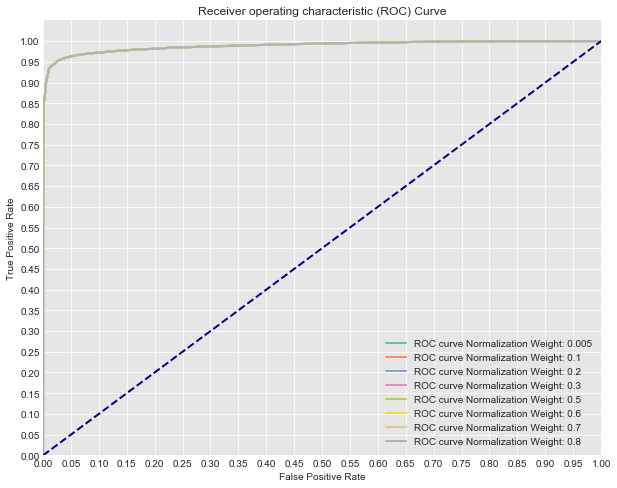
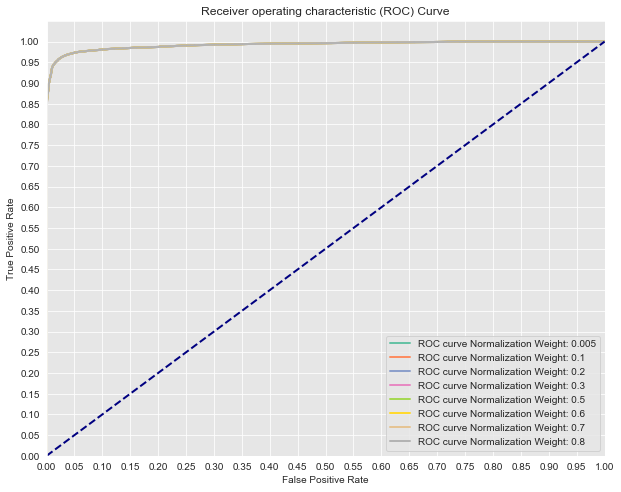
use same solver

diff --git a/README.md b/README.md
@@ -85,7 +85,7 @@ plt.figure(figsize=(10,8))
 
 for n, c in enumerate(C_param_range):
     #Fit a model
-    logreg = LogisticRegression(fit_intercept = False, C = c) #Starter code
+    logreg = LogisticRegression(fit_intercept = False, C = c, solver='liblinear') #Starter code
     model_log = logreg.fit(X_train, y_train)
     print(model_log) #Preview model params
 
@@ -119,46 +119,54 @@ plt.show()
     1    284315
     0    284315
     dtype: int64
-    LogisticRegression(C=0.005, class_weight=None, dual=False,
-              fit_intercept=False, intercept_scaling=1, max_iter=100,
-              multi_class='ovr', n_jobs=1, penalty='l2', random_state=None,
-              solver='liblinear', tol=0.0001, verbose=0, warm_start=False)
-    AUC for 0.005: 0.9889222836885252
+    LogisticRegression(C=0.005, class_weight=None, dual=False, fit_intercept=False,
+                       intercept_scaling=1, l1_ratio=None, max_iter=100,
+                       multi_class='warn', n_jobs=None, penalty='l2',
+                       random_state=None, solver='liblinear', tol=0.0001, verbose=0,
+                       warm_start=False)
+    AUC for 0.005: 0.992261982457822
     LogisticRegression(C=0.1, class_weight=None, dual=False, fit_intercept=False,
-              intercept_scaling=1, max_iter=100, multi_class='ovr', n_jobs=1,
-              penalty='l2', random_state=None, solver='liblinear', tol=0.0001,
-              verbose=0, warm_start=False)
-    AUC for 0.1: 0.9889243265712433
+                       intercept_scaling=1, l1_ratio=None, max_iter=100,
+                       multi_class='warn', n_jobs=None, penalty='l2',
+                       random_state=None, solver='liblinear', tol=0.0001, verbose=0,
+                       warm_start=False)
+    AUC for 0.1: 0.9922559800919245
     LogisticRegression(C=0.2, class_weight=None, dual=False, fit_intercept=False,
-              intercept_scaling=1, max_iter=100, multi_class='ovr', n_jobs=1,
-              penalty='l2', random_state=None, solver='liblinear', tol=0.0001,
-              verbose=0, warm_start=False)
-    AUC for 0.2: 0.9889243770445593
+                       intercept_scaling=1, l1_ratio=None, max_iter=100,
+                       multi_class='warn', n_jobs=None, penalty='l2',
+                       random_state=None, solver='liblinear', tol=0.0001, verbose=0,
+                       warm_start=False)
+    AUC for 0.2: 0.9922558300575188
     LogisticRegression(C=0.3, class_weight=None, dual=False, fit_intercept=False,
-              intercept_scaling=1, max_iter=100, multi_class='ovr', n_jobs=1,
-              penalty='l2', random_state=None, solver='liblinear', tol=0.0001,
-              verbose=0, warm_start=False)
-    AUC for 0.3: 0.9889243972338857
+                       intercept_scaling=1, l1_ratio=None, max_iter=100,
+                       multi_class='warn', n_jobs=None, penalty='l2',
+                       random_state=None, solver='liblinear', tol=0.0001, verbose=0,
+                       warm_start=False)
+    AUC for 0.3: 0.9922557706771471
     LogisticRegression(C=0.5, class_weight=None, dual=False, fit_intercept=False,
-              intercept_scaling=1, max_iter=100, multi_class='ovr', n_jobs=1,
-              penalty='l2', random_state=None, solver='liblinear', tol=0.0001,
-              verbose=0, warm_start=False)
-    AUC for 0.5: 0.9889244075264833
+                       intercept_scaling=1, l1_ratio=None, max_iter=100,
+                       multi_class='warn', n_jobs=None, penalty='l2',
+                       random_state=None, solver='liblinear', tol=0.0001, verbose=0,
+                       warm_start=False)
+    AUC for 0.5: 0.9922557397993539
     LogisticRegression(C=0.6, class_weight=None, dual=False, fit_intercept=False,
-              intercept_scaling=1, max_iter=100, multi_class='ovr', n_jobs=1,
-              penalty='l2', random_state=None, solver='liblinear', tol=0.0001,
-              verbose=0, warm_start=False)
-    AUC for 0.6: 0.9889244102975672
+                       intercept_scaling=1, l1_ratio=None, max_iter=100,
+                       multi_class='warn', n_jobs=None, penalty='l2',
+                       random_state=None, solver='liblinear', tol=0.0001, verbose=0,
+                       warm_start=False)
+    AUC for 0.6: 0.9922557241625228
     LogisticRegression(C=0.7, class_weight=None, dual=False, fit_intercept=False,
-              intercept_scaling=1, max_iter=100, multi_class='ovr', n_jobs=1,
-              penalty='l2', random_state=None, solver='liblinear', tol=0.0001,
-              verbose=0, warm_start=False)
-    AUC for 0.7: 0.9889244188087539
+                       intercept_scaling=1, l1_ratio=None, max_iter=100,
+                       multi_class='warn', n_jobs=None, penalty='l2',
+                       random_state=None, solver='liblinear', tol=0.0001, verbose=0,
+                       warm_start=False)
+    AUC for 0.7: 0.9922557247563264
     LogisticRegression(C=0.8, class_weight=None, dual=False, fit_intercept=False,
-              intercept_scaling=1, max_iter=100, multi_class='ovr', n_jobs=1,
-              penalty='l2', random_state=None, solver='liblinear', tol=0.0001,
-              verbose=0, warm_start=False)
-    AUC for 0.8: 0.9889244061409412
+                       intercept_scaling=1, l1_ratio=None, max_iter=100,
+                       multi_class='warn', n_jobs=None, penalty='l2',
+                       random_state=None, solver='liblinear', tol=0.0001, verbose=0,
+                       warm_start=False)
+    AUC for 0.8: 0.9922557053587383
 
 
 
